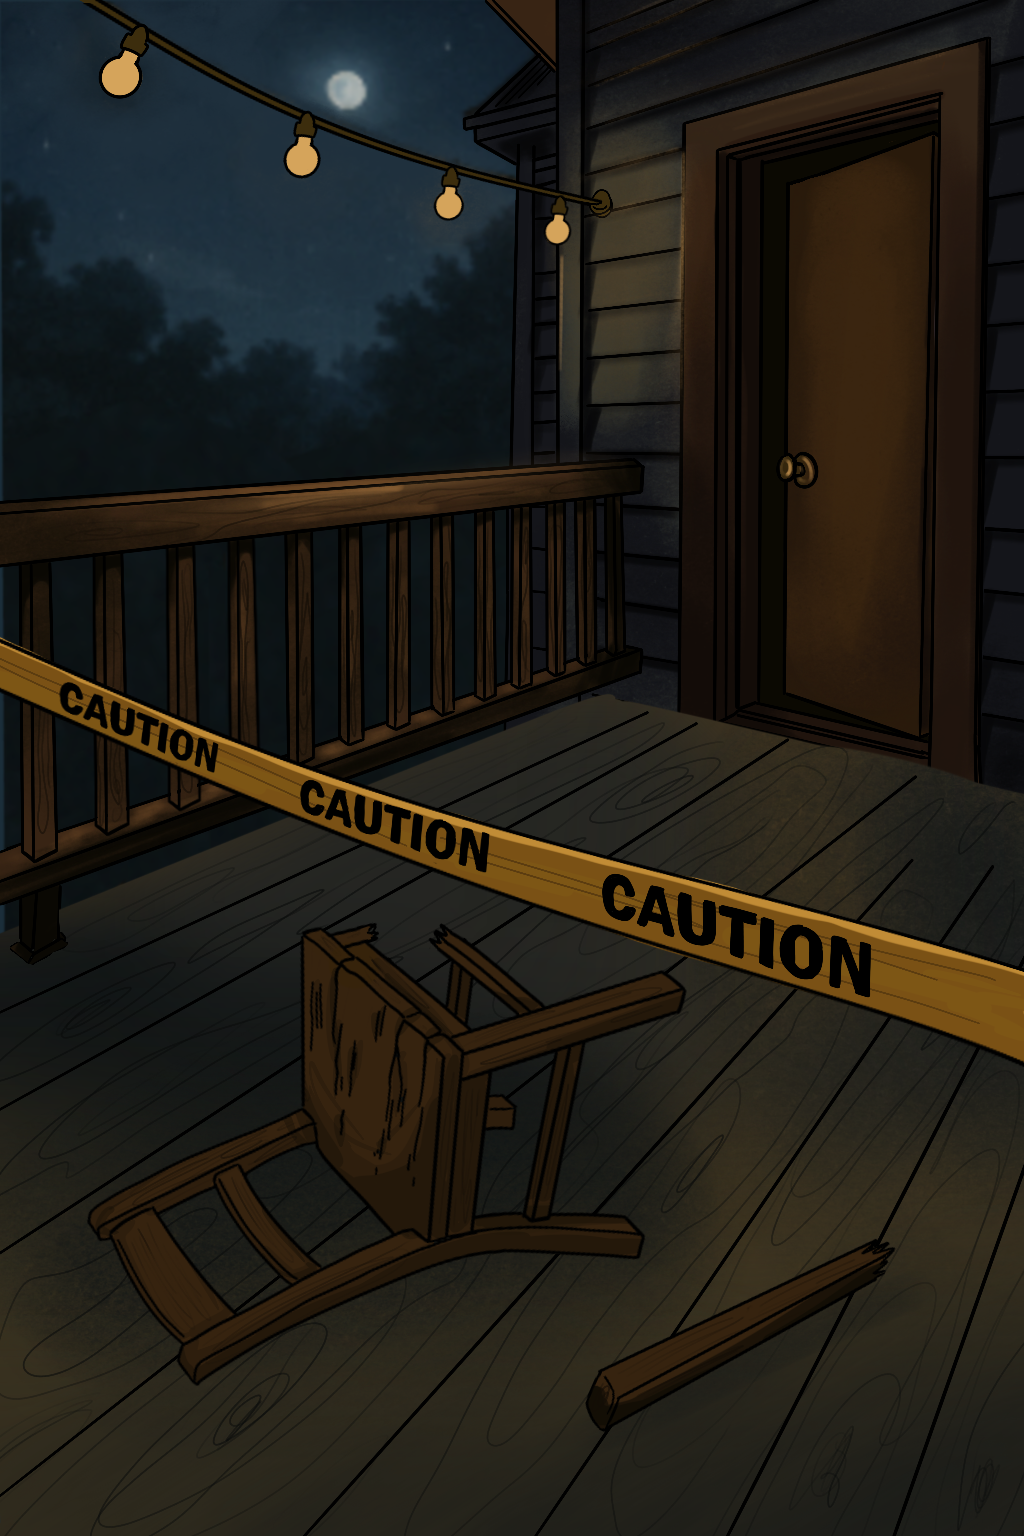
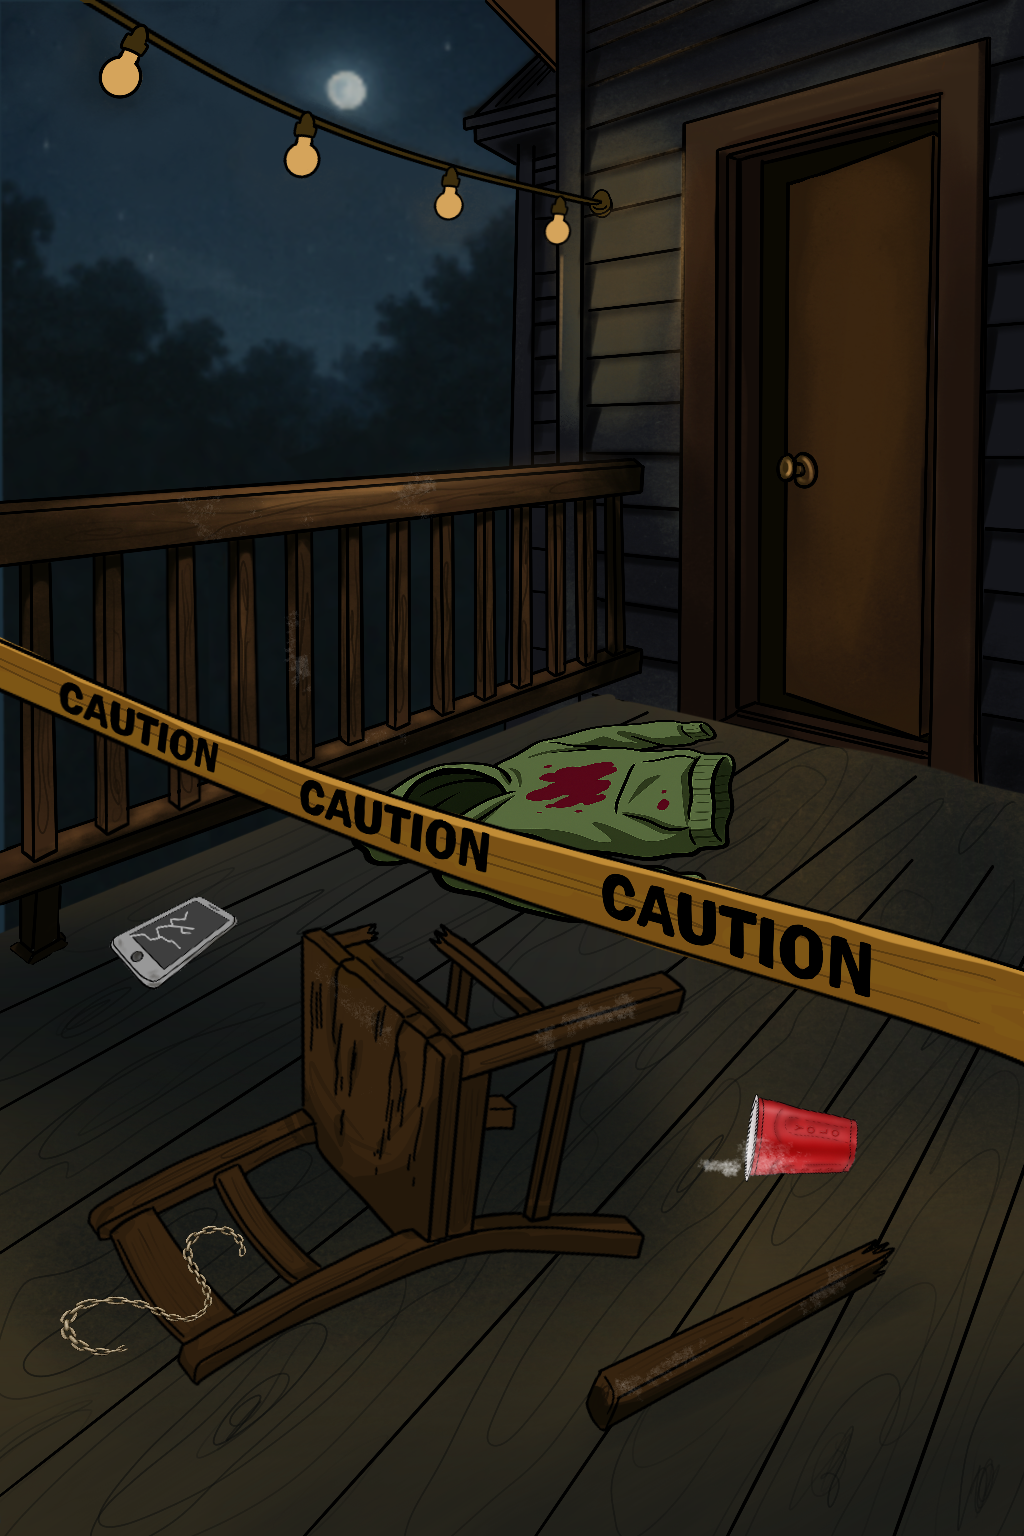
added all the images in

diff --git a/case_closed/lib/death_row/scene.dart b/case_closed/lib/death_row/scene.dart
@@ -18,11 +18,50 @@ class Hotspot {
 
 // THE CLUES
 final List<Hotspot> hotspots = [
-  Hotspot(id: "red_cup", title: "Red Solo Cup", description: "Smells of alcohol. Lab results indicate traces of 'Benzodiazepine' mixed with the beer.", left: 0.70, top: 0.80),
-  Hotspot(id: "necklace", title: "Silver Chain", description: "Broken at the clasp. Engraved with 'TB' on the back. Found in dust layer.", left: 0.30, top: 0.65),
-  Hotspot(id: "burner_phone", title: "Prepaid Cellphone", description: "Screen cracked. Last text at 12:10 AM: 'Get up here now.' No contact name saved.", left: 0.85, top: 0.50),
-  Hotspot(id: "receipt", title: "Crumpled Receipt", description: "Found in trash. Purchase of 'TracFone Prepaid'. Paid via Credit Card ending in #8842.", left: 0.20, top: 0.85),
-  Hotspot(id: "hoodie", title: "Ripped Hoodie", description: "Found behind planter. Dark fabric with blood spatter (Type O+).", left: 0.10, top: 0.40),
+  // 1. Red Cup (Bottom Right)
+  Hotspot(
+    id: "red_cup", 
+    title: "Red Solo Cup", 
+    description: "Smells of alcohol. Lab results indicate traces of 'Benzodiazepine' mixed with the beer.", 
+    left: 0.72, 
+    top: 0.72
+  ),
+
+  // 2. Necklace (Bottom Left - The chain on the floor)
+  Hotspot(
+    id: "necklace", 
+    title: "Silver Chain", 
+    description: "Broken at the clasp. Engraved with 'TB' on the back. Found in dust layer.", 
+    left: 0.12, 
+    top: 0.82
+  ),
+
+  // 3. Burner Phone (Middle Left - The white phone)
+  Hotspot(
+    id: "burner_phone", 
+    title: "Prepaid Cellphone", 
+    description: "Screen cracked. Last text at 12:10 AM: 'Get up here now.' No contact name saved.", 
+    left: 0.15, 
+    top: 0.58
+  ),
+
+  // 4. Receipt (Hidden near the cup/trash)
+  Hotspot(
+    id: "receipt", 
+    title: "Crumpled Receipt", 
+    description: "Found in trash. Purchase of 'TracFone Prepaid'. Paid via Credit Card ending in #8842.", 
+    left: 0.85, 
+    top: 0.75
+  ),
+
+  // 5. Hoodie (Center - The green sweatshirt)
+  Hotspot(
+    id: "hoodie", 
+    title: "Ripped Hoodie", 
+    description: "Found behind planter. Dark fabric with blood spatter (Type O+).", 
+    left: 0.42, 
+    top: 0.42
+  ),
 ];
 
 class DeathRowScene extends StatelessWidget {
@@ -228,7 +267,8 @@ class InteractiveSceneTab extends StatelessWidget {
                 onTap: () => _showDialog(context, h, evidenceModel),
                 child: Container(
                   width: 60, height: 60,
-                  color: Colors.transparent, // Invisible
+                  color: Colors.red.withOpacity(0.5), // *** DEBUG CHANGE: Set to RED ***
+                  //color: Colors.transparent, // Invisible
                 ),
               ),
             );

diff --git a/case_closed/lib/death_row/suspects.dart b/case_closed/lib/death_row/suspects.dart
@@ -21,7 +21,7 @@ class _SuspectsTabState extends State<SuspectsTab> {
       "alibi": "Traffic cam shows her car leaving campus at 11:59 PM.",
       "motive": "Anger over breakup.",
       "notes": "Forensics: Fingerprints on balcony railing match hers, but dust analysis suggests they are 4+ hours old.",
-      "image": "assets/images/suspect_jenna.png",
+      "image": "assets/images/jenna.png",
     },
     // 2. TYLER
     {
@@ -30,7 +30,7 @@ class _SuspectsTabState extends State<SuspectsTab> {
       "alibi": "Claims he was in the kitchen cutting limes.",
       "motive": "Ethan threatened to report hazing violations.",
       "notes": "Personal Effects: Wallet contains Visa ending in #8842.",
-      "image": "assets/images/suspect_tyler.png", 
+      "image": "assets/images/tyler.png", 
     },
     // 3. PROF KLINE
     {
@@ -39,7 +39,7 @@ class _SuspectsTabState extends State<SuspectsTab> {
       "alibi": "Faculty Dinner downtown.",
       "motive": "Ethan discovered academic fraud.",
       "notes": "Personal Effects: Receipt from 'The Golden Steakhouse' timestamped 12:05 AM. Distance: 15 miles.",
-      "image": "assets/images/suspect_kline.png",
+      "image": "assets/images/prof.png",
     },
     // 4. MASON (Last)
     {
@@ -48,7 +48,7 @@ class _SuspectsTabState extends State<SuspectsTab> {
       "alibi": "Seen on CCTV in backyard (11:55 PM - 12:20 AM).",
       "motive": "Protecting fraternity reputation.",
       "notes": "Room Search: Door found open. Desk messy.",
-      "image": "assets/images/suspect_mason.png",
+      "image": "assets/images/mason.png",
     },
   ];
 

diff --git a/case_closed/lib/models/evidence_model.dart b/case_closed/lib/models/evidence_model.dart
@@ -48,8 +48,9 @@ class EvidenceModel extends ChangeNotifier {
       if (savedIds != null) {
         _collected.clear();
         for (String id in savedIds) {
-          if (id == 'red_cup') _collected.add(Evidence(id: 'red_cup', title: 'Red Solo Cup', description: 'Smells of alcohol. Lab results indicate traces of \'Benzodiazepine\' mixed with the beer.'));
-          else if (id == 'necklace') _collected.add(Evidence(id: 'necklace', title: 'Silver Chain', description: 'Broken at the clasp. Engraved with \'TB\' on the back. Found in dust layer.'));
+          if (id == 'red_cup') {
+            _collected.add(Evidence(id: 'red_cup', title: 'Red Solo Cup', description: 'Smells of alcohol. Lab results indicate traces of \'Benzodiazepine\' mixed with the beer.'));
+          } else if (id == 'necklace') _collected.add(Evidence(id: 'necklace', title: 'Silver Chain', description: 'Broken at the clasp. Engraved with \'TB\' on the back. Found in dust layer.'));
           else if (id == 'burner_phone') _collected.add(Evidence(id: 'burner_phone', title: 'Prepaid Cellphone', description: 'Screen cracked. Last text at 12:10 AM: \'Get up here now.\''));
           else if (id == 'receipt') _collected.add(Evidence(id: 'receipt', title: 'Crumpled Receipt', description: 'Found in trash. Purchase of \'TracFone Prepaid\'. Paid via Credit Card ending in #8842.'));
           else if (id == 'hoodie') _collected.add(Evidence(id: 'hoodie', title: 'Ripped Hoodie', description: 'Found behind planter. Dark fabric with blood spatter (Type O+).'));

diff --git a/case_closed/lib/death_row/background.dart b/case_closed/lib/death_row/background.dart
@@ -55,16 +55,26 @@ class DeathRowBackground extends StatelessWidget {
                 crossAxisAlignment: CrossAxisAlignment.start,
                 children: [
                   // PHOTO (Left)
-                  Container(
+                   Container(
                     width: 120,
                     height: 150,
+                    clipBehavior: Clip.antiAlias, // Clips the image to the border
                     decoration: BoxDecoration(
                       color: Colors.grey[800],
                       border: Border.all(color: Colors.white24, width: 2),
                       boxShadow: const [BoxShadow(color: Colors.black45, blurRadius: 8, offset: Offset(2, 2))],
-                      // If you have a specific victim image, switch the child to Image.asset
                     ),
-                    child: const Icon(Icons.person, size: 60, color: Colors.white12),
+                    // We use Image.asset as a child so we can use errorBuilder
+                    child: Image.asset(
+                      'assets/images/ethan.png',
+                      fit: BoxFit.cover,
+                      errorBuilder: (context, error, stackTrace) {
+                        // IF IMAGE FAILS, SHOW THIS ICON INSTEAD
+                        return const Center(
+                          child: Icon(Icons.person, size: 60, color: Colors.white12)
+                        );
+                      },
+                    ),
                   ),
                   
                   const SizedBox(width: 24),
